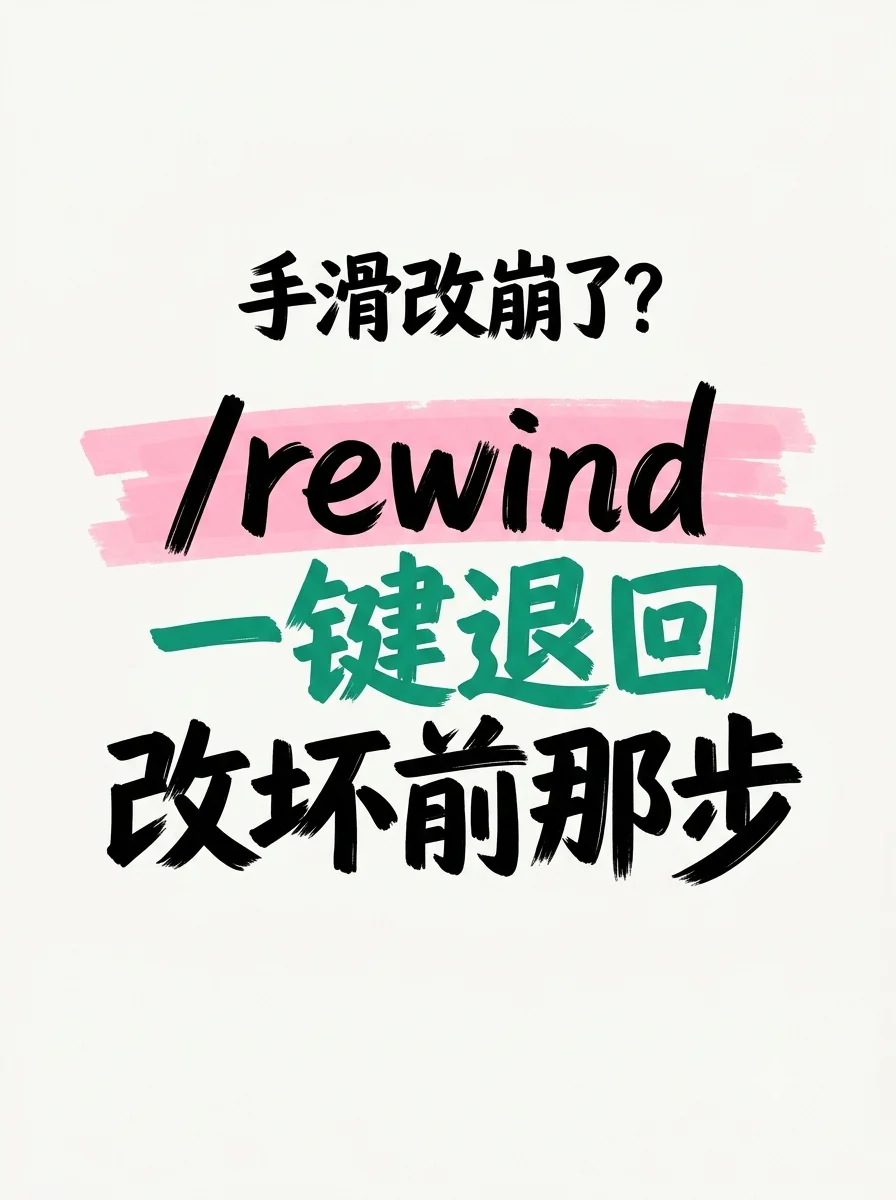
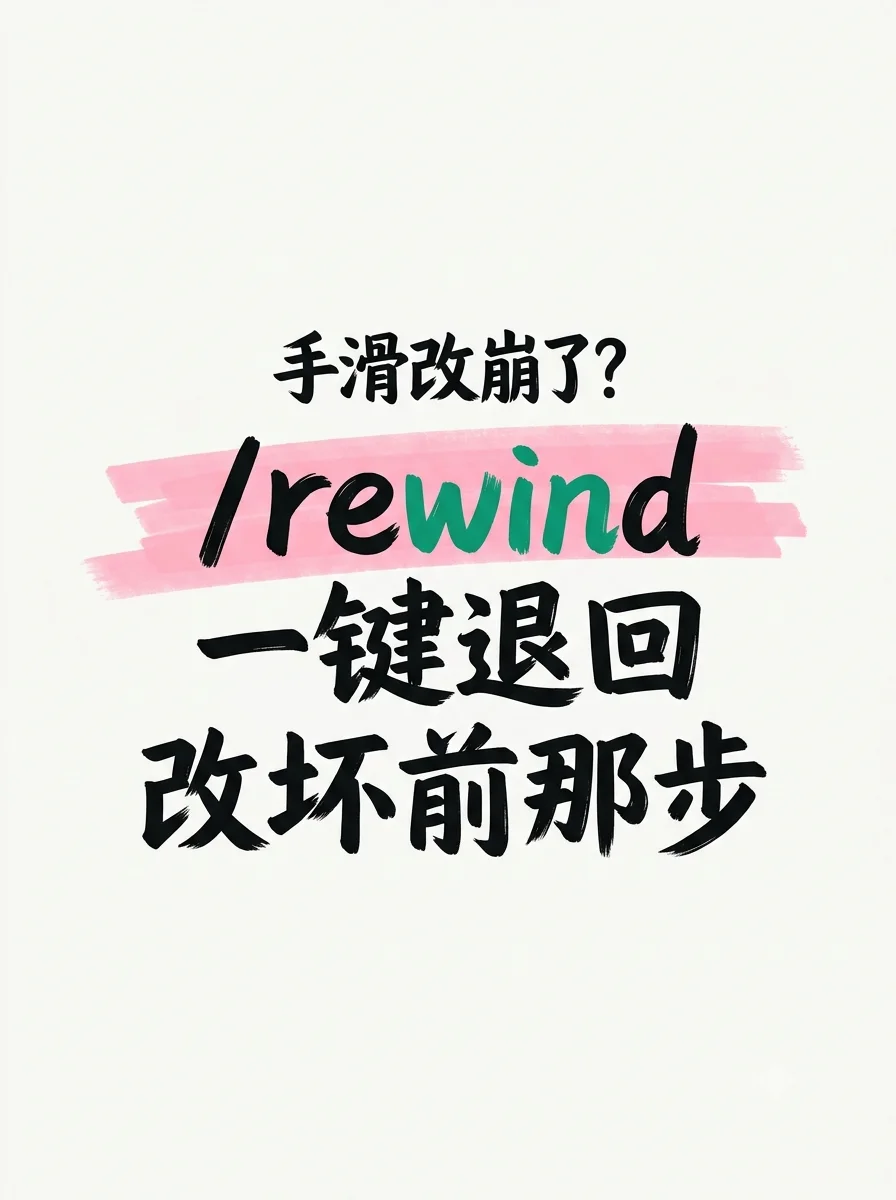
refine(image-styles): marker-* 字更小、行距更松、文字占画面比例更低
按参考图反馈微调排版:字号从'大爆点'降到'中等不夸张',文字块占比
~55% → ~40%(四周大留白),行距/字距放松。prompt 模板 + 5 张预览图
+ README 四条铁律同步更新。

Changed region(s): [[0.0938, 0.185, 0.9375, 0.74]]

diff --git a/assets/image-styles/README.md b/assets/image-styles/README.md
@@ -263,7 +263,7 @@ accounts:
 
 白底 + 粗刷体大字(干笔飞白)+ 一道荧光笔高亮压在关键行 + 单个关键词强调色,居中大留白。纯文字大字卡,标题党 / 爆点 / 热评气质,手作感强。**取代旧的 `tech-card-blue` / `quote-card-minimal` 两款极简大字卡**,作为卡片类推荐默认(`tech` 账号 `image_style` 默认已切到 `marker-lime`)。
 
-**共享 DNA / 四条铁律**:①字号分层——小引子行 ≈ 大字的 55%,大爆点 2-3 行紧凑成块;②文字块居中、上下留大片白,不铺满;③全卡只一道**干刷、有笔触条纹、边缘毛糙半透明**的荧光高亮,只压第一行大字;④只一个词上强调色,其余近黑 `#1a1a1a`,白底不铺色不加框。5 个变体只换「高亮色 + 强调色」这一对。
+**共享 DNA / 四条铁律**:①字号分层——小引子 ≈ 大字的 55%,大爆点中等不夸张、2-3 行行距宽松;②文字块只占画面 ~40%、四周大留白,字小而透气、不铺满;③全卡只一道**干刷、有笔触条纹、边缘毛糙半透明**的荧光高亮,只压第一行大字;④只一个词上强调色,其余近黑 `#1a1a1a`,白底不铺色不加框。5 个变体只换「高亮色 + 强调色」这一对。
 
 > **⚠ 字体一致**:纯文字卡最吃字体,模型渲染中文会飘、刷体难稳。要真·一致就走「白底只出高亮 + 版式,文字用固定刷体后期叠」(中文汉仪雅酷黑 / 站酷庆科黄油体,英文 Permanent Marker / Caveat)。一步到位出字时,卡面控制在 ≤14 字、短句分行,出错率更低。
 
